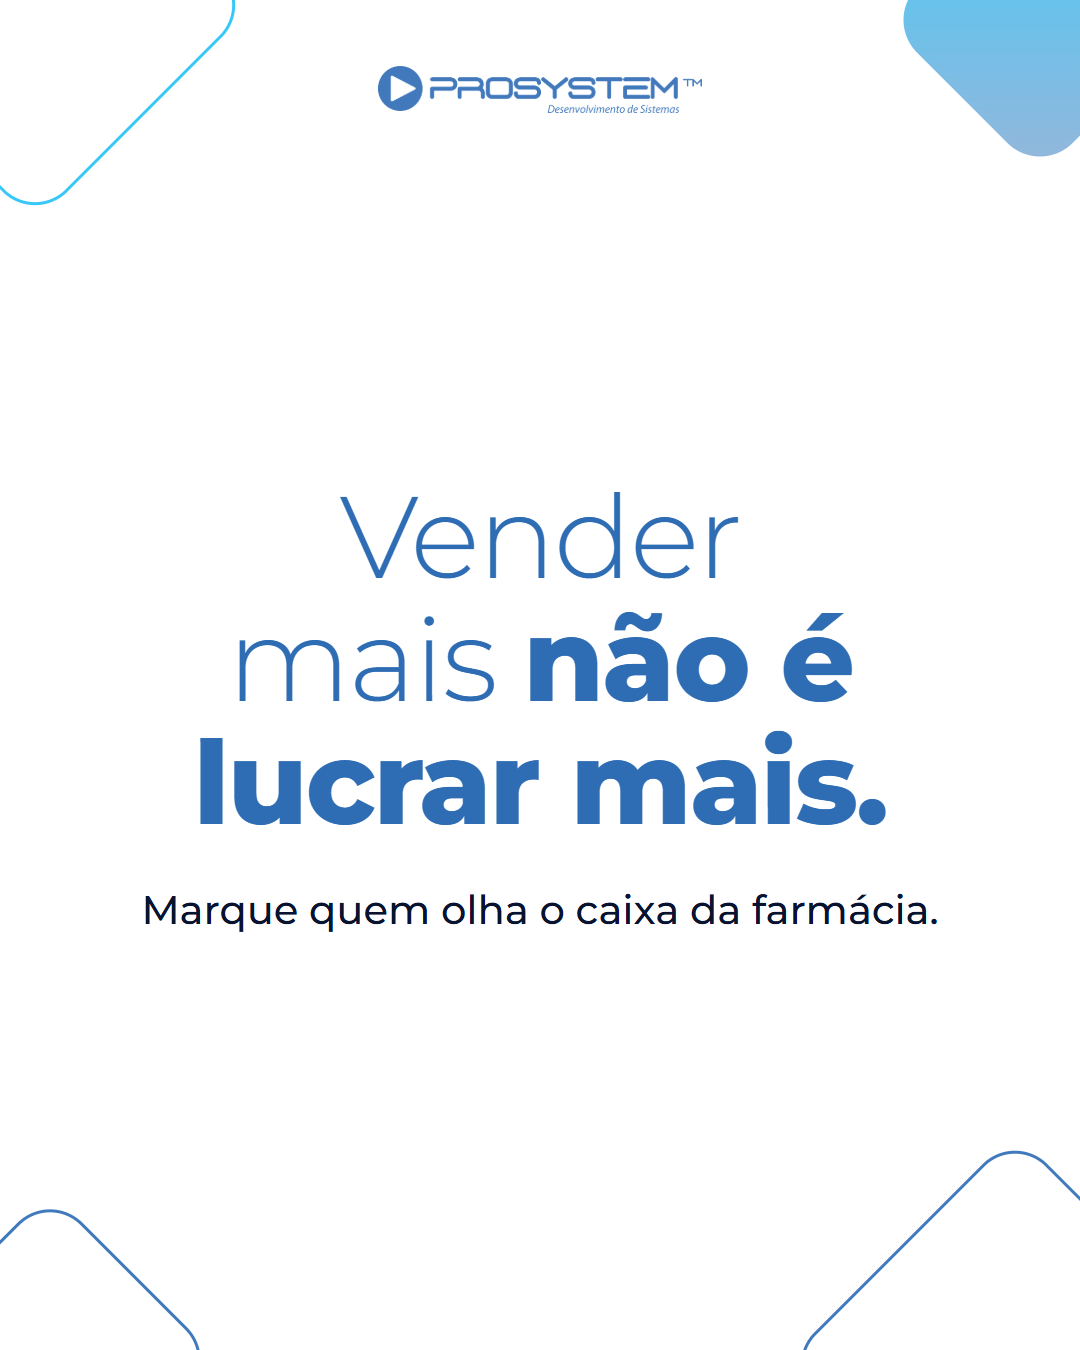
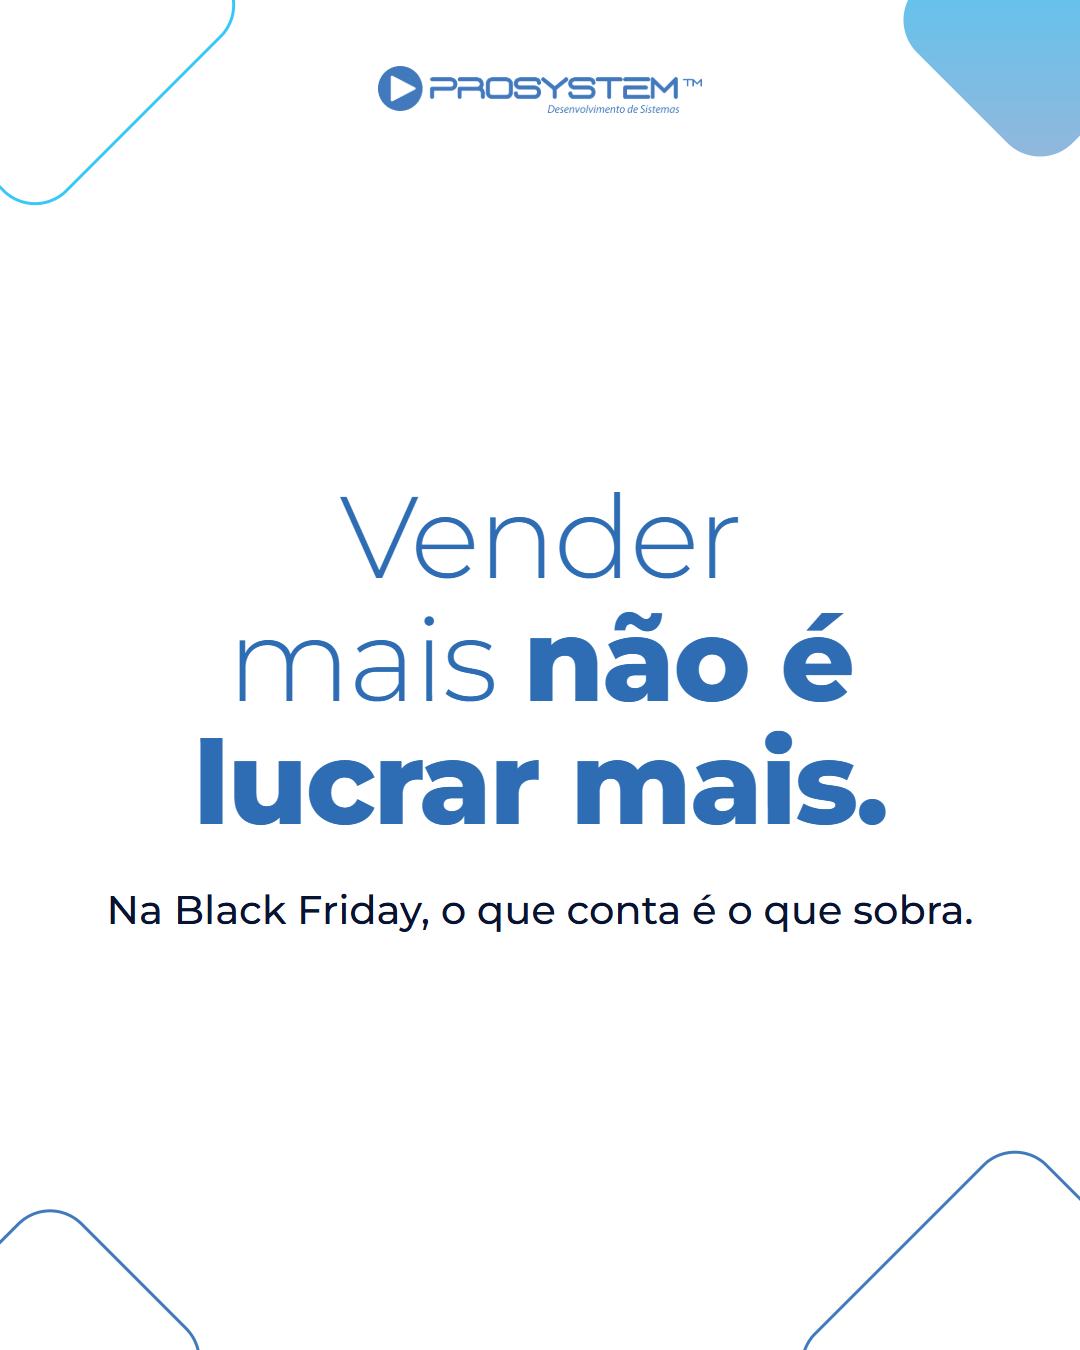
Atualização automática (03/11/2026 13:32): 4 arquivo(s)
Arquivos: docs/contexto/relatorios/2026-11-03-frase-farmacia-lucro-chamada.md, outputs/criativos/nov-dez/legendas.md, outputs/criativos/nov-dez/pecas-dados.js e mais 1

Changed region(s): [[0.4278, 0.6533, 0.8861, 0.6844], [0.0917, 0.6533, 0.3972, 0.6844]]

diff --git a/outputs/criativos/nov-dez/pecas-dados.js b/outputs/criativos/nov-dez/pecas-dados.js
@@ -116,9 +116,9 @@ ${CTA}`,
   conferir: ['Os 5 combinados são orientação nossa, sem fonte externa.', 'Sem ferramenta na peça: "Encomenda" no Prosystem é produto em falta, não pedido de padaria.'] },
 
 { data: 'Sex 27/11', seg: 'Farmácia', id: 'frase-farmacia-lucro-v1', tipo: 'frase', tema: 'azul', formato: 'Frase de impacto', nova: true,
-  titulo: 'Vender mais <b>não é lucrar mais.</b>', apoio: 'Marque quem olha o caixa da farmácia.',
+  titulo: 'Vender mais <b>não é lucrar mais.</b>', apoio: 'Na Black Friday, o que conta é o que sobra.',
   kw: 'margem de lucro na farmácia',
-  cap: 'Margem de lucro na farmácia: na Black Friday, a venda sobe, mas é o que sobra que paga as contas de 2027.\n\nHoje, repare em quanto você está vendendo e em quanto está ficando.\n\nMarque quem olha o caixa da farmácia.',
+  cap: 'Margem de lucro na farmácia: na Black Friday, a venda sobe, mas é o que sobra que paga as contas de 2027.\n\nHoje, repare em quanto você está vendendo e em quanto está ficando.\n\nQuanto sobrou da sua última promoção? Se a resposta demorou, fale com um especialista pelo link da bio.',
   tags: '#blackfriday #margemdelucro #gestaodefarmacia #farmacia',
   alts: ['Frase em azul sobre fundo branco: vender mais não é lucrar mais.'],
   conferir: ['Quando o artigo de margem for publicado, citar na legenda que ele está no blog.', 'Termo com volume de busca não conferido.'] },

diff --git a/docs/contexto/relatorios/2026-11-03-frase-farmacia-lucro-chamada.md b/docs/contexto/relatorios/2026-11-03-frase-farmacia-lucro-chamada.md
@@ -1,0 +1,22 @@
+# Frase "Vender mais não é lucrar mais" (27/11): chamada sem "marque"
+
+## Pedido
+A Jessica pediu para reformular a chamada da peça `frase-farmacia-lucro-v1` e "tirar esse negócio de marcar".
+
+## Feito
+- `outputs/criativos/nov-dez/pecas-dados.js`: o apoio da arte passou de "Marque quem olha o caixa da farmácia." para "Na Black Friday, o que conta é o que sobra.".
+- O fim da legenda passou a ser "Quanto sobrou da sua última promoção? Se a resposta demorou, fale com um especialista pelo link da bio." (mesmo trecho trocado em `outputs/criativos/nov-dez/legendas.md`).
+- PNG gerado de novo: `outputs/criativos/nov-dez/pecas/frase-farmacia-lucro-v1.png`.
+
+## Verificado
+- `node gerar.js frase-farmacia-lucro-v1` rodou sem estouro de texto; a imagem foi aberta e conferida (apoio cabe em uma linha).
+
+## Decisões e porquês
+- O apoio liga a frase à data (27/11 é Black Friday) e repete a ideia "o que sobra" da legenda, sem pedir ação.
+- A legenda troca o "marque" por uma pergunta e pelo CTA padrão do especialista.
+
+## Pendente
+- Aprovação da Jessica para a nova chamada.
+
+## Próxima sessão
+Se ela pedir outra opção, mudar `apoio` em `pecas-dados.js` e rodar `node outputs/criativos/nov-dez/gerar.js frase-farmacia-lucro-v1`.

diff --git a/outputs/criativos/nov-dez/legendas.md b/outputs/criativos/nov-dez/legendas.md
@@ -415,7 +415,7 @@ Margem de lucro na farmácia: na Black Friday, a venda sobe, mas é o que sobra 
 
 Hoje, repare em quanto você está vendendo e em quanto está ficando.
 
-Marque quem olha o caixa da farmácia.
+Quanto sobrou da sua última promoção? Se a resposta demorou, fale com um especialista pelo link da bio.
 
 #blackfriday #margemdelucro #gestaodefarmacia #farmacia
 
